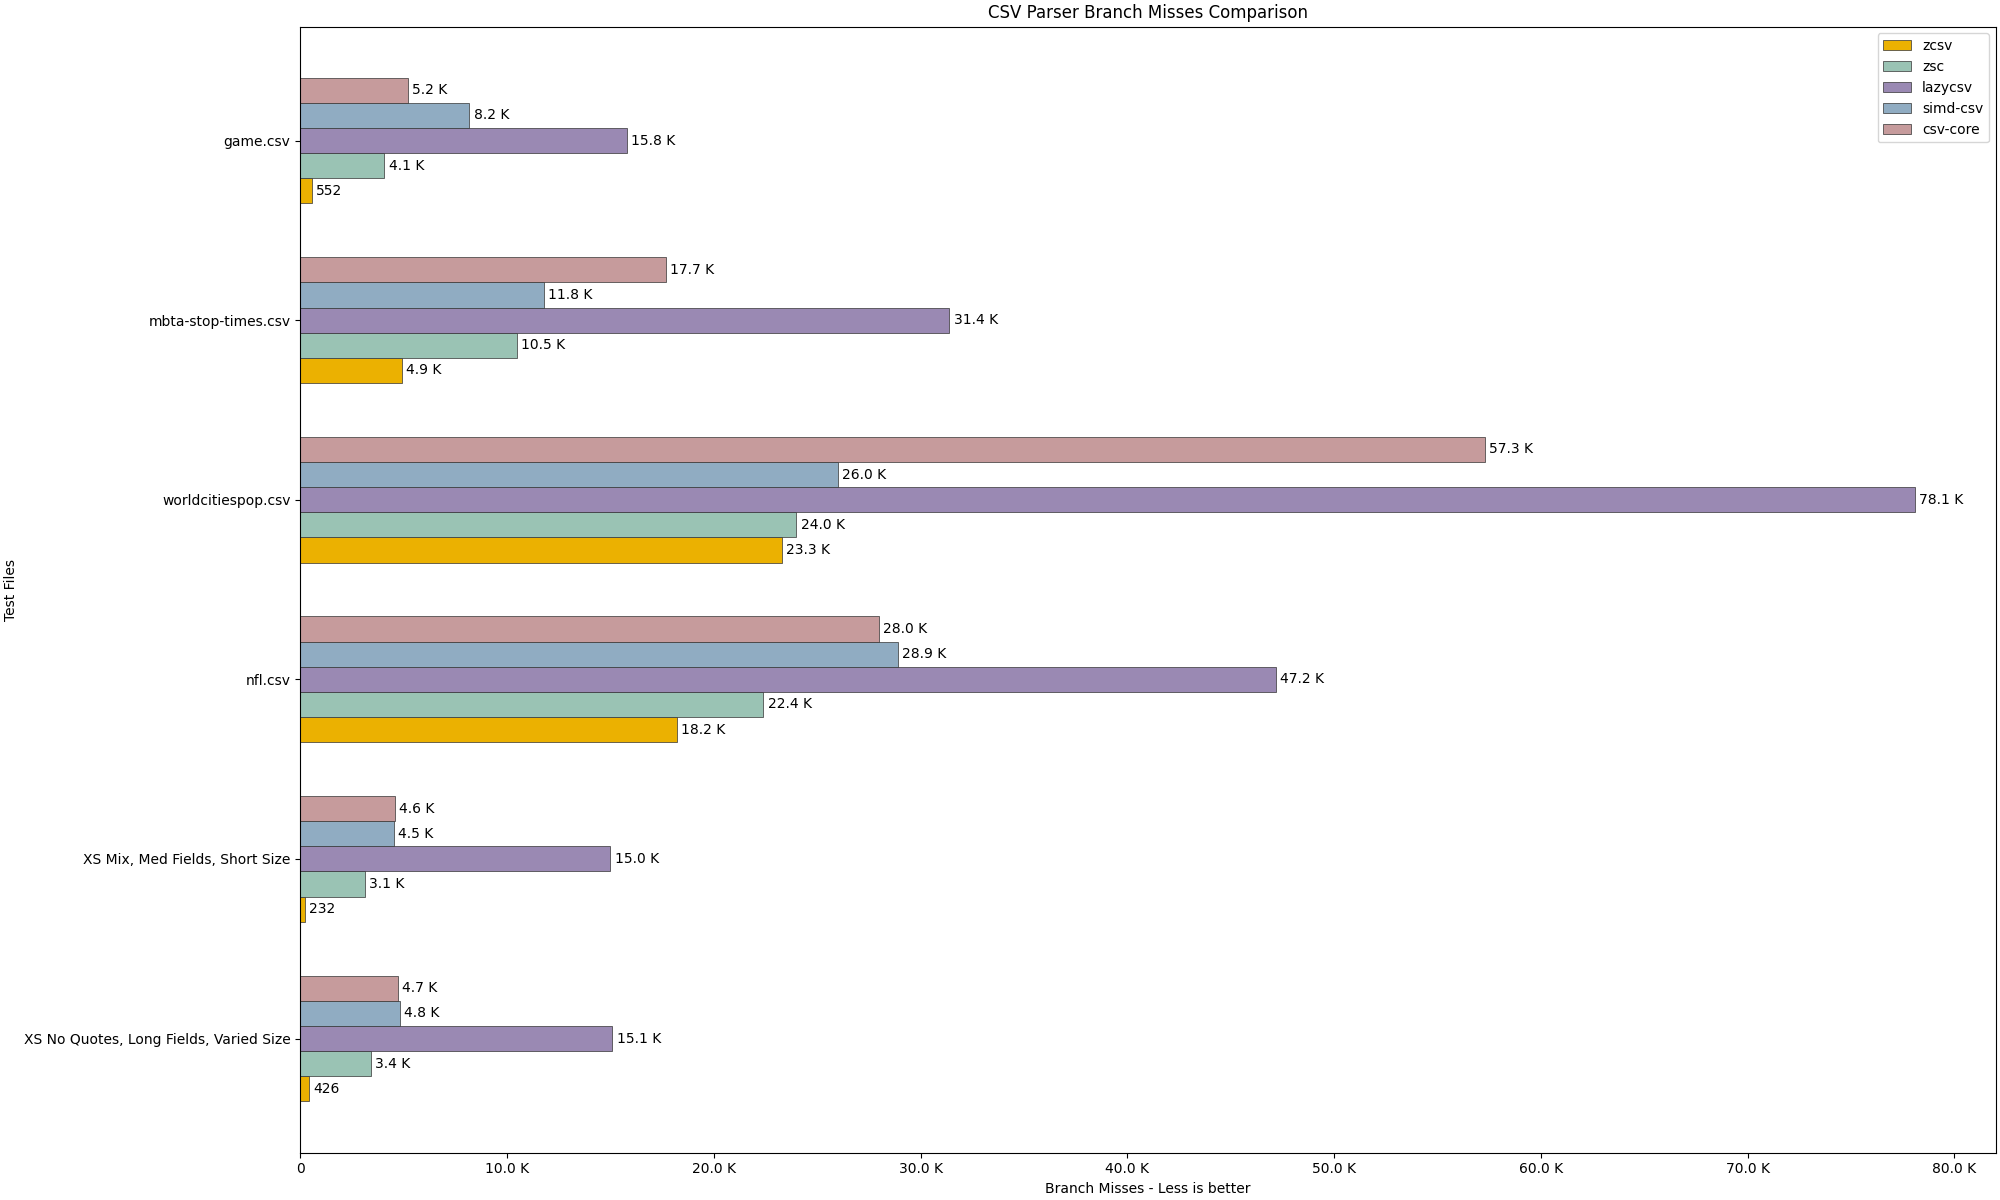
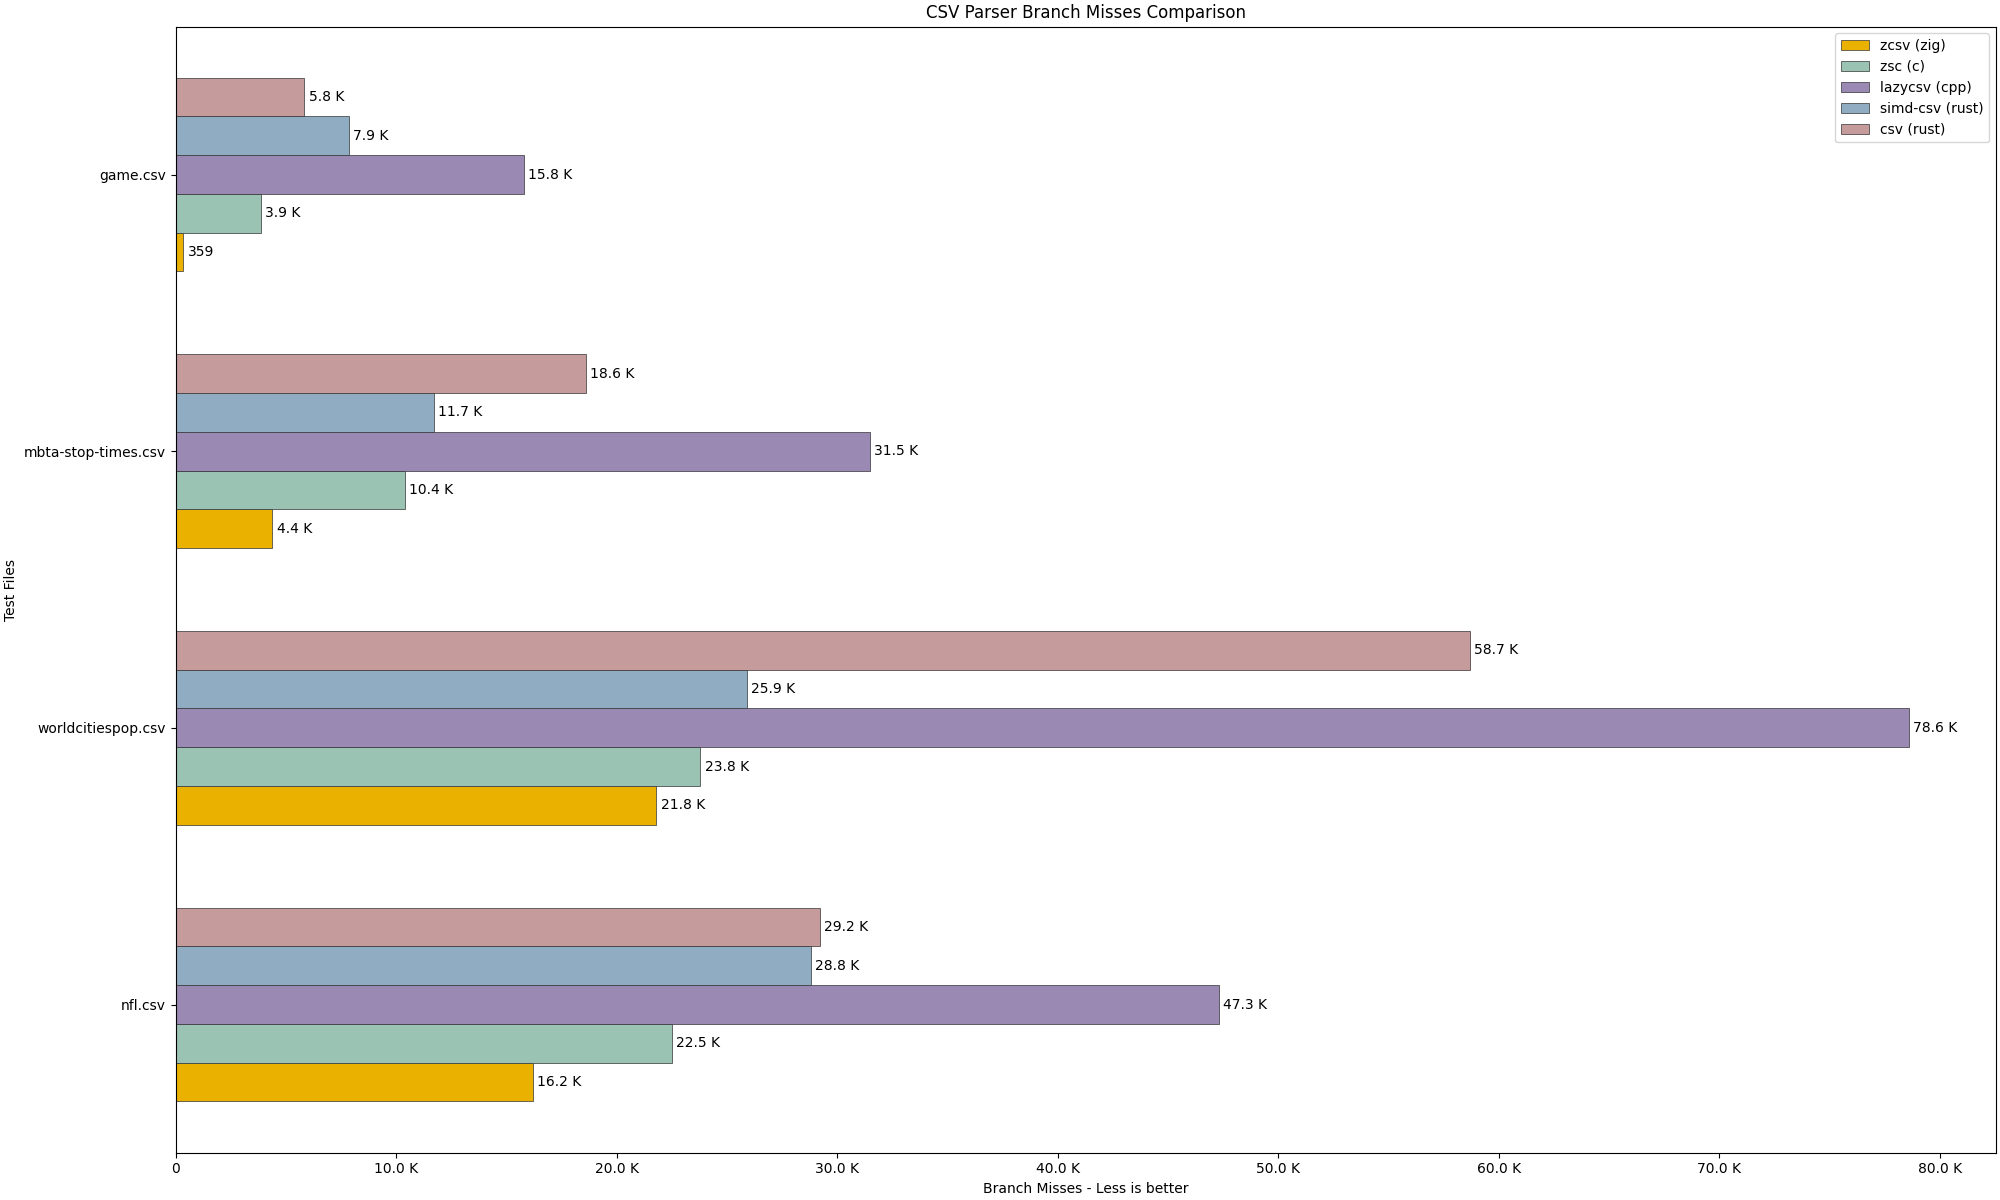
improve images

diff --git a/generate_charts.py b/generate_charts.py
@@ -7,34 +7,34 @@ from matplotlib.ticker import FuncFormatter
 
 
 TEST_FILES = [
-    {
-        'path': './data/gen/xs_mix_quotes_12_col_0_32.csv',
-        'name': 'XS Mix Quotes, 12 col, 0-32 chars',
-    },
-    {
-        'path': './data/gen/xs_no_quotes_52_col_0_256.csv',
-        'name': 'XS No Quotes, 52 col, 0-256 chars',
-    },
-    {
-        'path': './data/gen/m_mix_quotes_12_col_0_32.csv',
-        'name': 'M Mix Quotes, 12 col, 0-32 chars',
-    },
-    {
-        'path': './data/gen/m_no_quotes_52_col_0_256.csv',
-        'name': 'M No Quotes, 52 col, 0-256 chars',
-    },
-    {
-        'path': './data/gen/xl_mix_quotes_12_col_0_32.csv',
-        'name': 'XL Mix Quotes, 12 col, 0-32 chars',
-    },
-    {
-        'path': './data/gen/xl_mix_quotes_2_col_0_12_many_rows.csv',
-        'name': 'XL Mix Quotes, 2 col, 0-12 chars, many rows',
-    },
-    {
-        'path': './data/gen/xl_no_quotes_52_col_0_256.csv',
-        'name': 'XL No Quotes, 52 col, 0-256 chars',
-    },
+    # {
+    #     'path': './data/gen/xs_mix_quotes_12_col_0_32.csv',
+    #     'name': 'XS Mix Quotes, 12 col, 0-32 chars',
+    # },
+    # {
+    #     'path': './data/gen/xs_no_quotes_52_col_0_256.csv',
+    #     'name': 'XS No Quotes, 52 col, 0-256 chars',
+    # },
+    # {
+    #     'path': './data/gen/m_mix_quotes_12_col_0_32.csv',
+    #     'name': 'M Mix Quotes, 12 col, 0-32 chars',
+    # },
+    # {
+    #     'path': './data/gen/m_no_quotes_52_col_0_256.csv',
+    #     'name': 'M No Quotes, 52 col, 0-256 chars',
+    # },
+    # {
+    #     'path': './data/gen/xl_mix_quotes_12_col_0_32.csv',
+    #     'name': 'XL Mix Quotes, 12 col, 0-32 chars',
+    # },
+    # {
+    #     'path': './data/gen/xl_mix_quotes_2_col_0_12_many_rows.csv',
+    #     'name': 'XL Mix Quotes, 2 col, 0-12 chars, many rows',
+    # },
+    # {
+    #     'path': './data/gen/xl_no_quotes_52_col_0_256.csv',
+    #     'name': 'XL No Quotes, 52 col, 0-256 chars',
+    # },
     {
         'path': './data/nfl.csv',
         'name': 'nfl.csv',
@@ -55,9 +55,9 @@ TEST_FILES = [
 PARSERS = [
     {'name': 'zcsv (zig)', 'path':  './src/zig/zig-out/bin/zcsv', 'bar_color': '#EBB101'},
     {'name': 'zsc (c)', 'path': './src/c/zsv/count_fields', 'bar_color': '#9AC3B4'},
-    {'name': 'lazycsv (cpp)', 'path':  './src/cpp/lazycsv/count_csv', 'bar_color': '#9A89B3'},
-    {'name': 'simd-csv (rust)', 'path':  './src/rust/simd-csv/target/release/csv-race', 'bar_color': '#90ACC2'},
-    {'name': 'csv (rust)', 'path':  './src/rust/csv/target/release/csv_race', 'bar_color': '#C69B9C'},
+    {'name': 'lazycsv (cpp)', 'path':  './src/cpp/lazycsv/count_fields', 'bar_color': '#9A89B3'},
+    {'name': 'simd-csv (rust)', 'path':  './src/rust/simd-csv/target/release/count_fields', 'bar_color': '#90ACC2'},
+    {'name': 'csv (rust)', 'path':  './src/rust/csv/target/release/count_fields', 'bar_color': '#C69B9C'},
 ]
 POOP_PATH = '/home/peyman/Downloads/x86_64-linux-poop'
 
@@ -150,7 +150,7 @@ METRICS = {
 
 
 def capture_output(test_file: str) -> dict:
-    args = [POOP_PATH, '--color', 'never', '-d', '5000']
+    args = [POOP_PATH, '--color', 'never', '-d', '10000']
     for parser in PARSERS:
         path = parser['path']
         args.append(f'{path} {test_file}')
